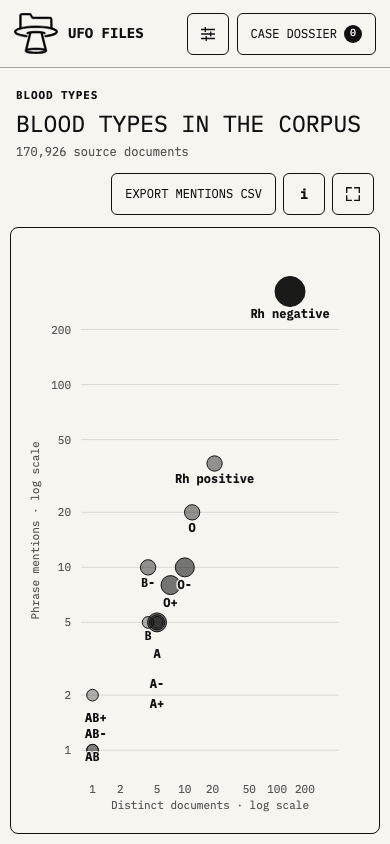
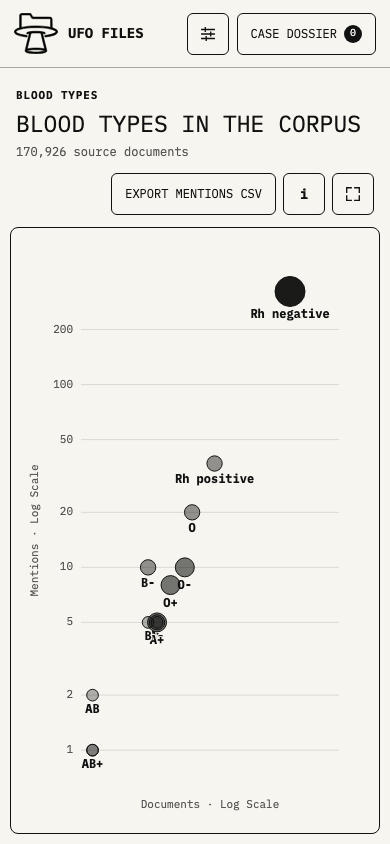
Share axis, point, and label rendering between scatter views

diff --git a/app.js b/app.js
@@ -2266,6 +2266,22 @@ function renderNetwork() {
   setSummary(`${nodes.length} ${collectionMode ? "collections" : "entities"} · ${edges.length} relationships`, "network");
 }
 
+function scatterPointMark(x, y, value, extent, isOutlier = false) {
+  return el("circle", {
+    cx: x, cy: y, r: scale(value, extent, [4, 15]),
+    fill: "#111", "fill-opacity": scale(value, extent, [.18, .96]),
+    stroke: "#111", "stroke-width": isOutlier ? 3 : 1,
+    class: `mark${isOutlier ? " outlier-mark" : ""}`
+  });
+}
+
+function scatterPointLabel(name, x, y, radius, labelSize, maximumY, maximumLength = 26) {
+  return el("text", {
+    x, y: Math.min(maximumY, y + radius + labelSize),
+    "text-anchor": "middle", class: "chart-label node-label"
+  }, name.slice(0, maximumLength));
+}
+
 function renderScatter() {
   const { svg, width, height } = clearChart();
   const candidates = filteredEntities();
@@ -2335,10 +2351,9 @@ function renderScatter() {
   data.forEach((item, index) => {
     const { x, y } = positionFor(item);
     const radius = scale(item[state.config.size], sizeExtent, [4, 15]);
-    const shade = scale(item[state.config.size], sizeExtent, [.18, .96]);
     const isOutlier = (!categoricalX && xAxis.capped && item[state.config.x] > xExtent[1]) || (yAxis.capped && item[state.config.y] > yExtent[1]);
     const egoNetwork = egoNetworks.get(item.id);
-    const dot = el("circle", { cx: x, cy: y, r: radius, fill: "#111", "fill-opacity": shade, stroke: "#111", "stroke-width": isOutlier ? 3 : 1, class: `mark${isOutlier ? " outlier-mark" : ""}` });
+    const dot = scatterPointMark(x, y, item[state.config.size], sizeExtent, isOutlier);
     const rawMentionDetail = ["contextAdjustedMentions", "epistemicAdjustedMentions"].includes(state.config.y) ? ` · Raw mentions: ${formatNumber(item.mentions)}` : "";
     const neighborDetail = egoNetwork.neighbors.length ? ` · Strongest relationships: ${egoNetwork.neighbors.map(neighbor => neighbor.entity.name).join(", ")}` : "";
     addTitle(dot, `${item.name} · ${label(state.config.y)}: ${formatNumber(item[state.config.y])}${rawMentionDetail}${neighborDetail}${isOutlier ? " · positioned at robust axis cap" : ""}`);
@@ -2366,9 +2381,9 @@ function renderScatter() {
     const showLabel = state.config.labels === "all"
       || (state.config.labels === "top" && (index < 10 || index % tickEvery === 0));
     if (categoricalX && showLabel) {
-      svg.append(el("text", { x, y: Math.min(height - 25, y + radius + state.config.labelSize), "text-anchor": "middle", class: "chart-label node-label" }, item.name.slice(0, 20)));
+      svg.append(scatterPointLabel(item.name, x, y, radius, state.config.labelSize, height - 25, 20));
     } else if (!categoricalX && showLabel) {
-      svg.append(el("text", { x, y: Math.min(height - margin.bottom + 18, y + radius + state.config.labelSize), "text-anchor": "middle", class: "chart-label node-label" }, item.name.slice(0, 26)));
+      svg.append(scatterPointLabel(item.name, x, y, radius, state.config.labelSize, height - margin.bottom + 18));
     }
   });
   drawIntensityLegend();
@@ -4382,33 +4397,20 @@ function drawBloodScatter(svg, observations, config) {
   const sourceExtent = valueExtent(groups.map(group => ({ sources: group.sources.size })), "sources");
   const ticks = [];
   for (let power = 0; 10 ** power <= maximum; power++) for (const multiplier of [1, 2, 5]) if (multiplier * 10 ** power <= maximum) ticks.push(multiplier * 10 ** power);
-  ticks.forEach(value => {
-    svg.append(el("line", { x1: margin.left, x2: width - margin.right, y1: y(value), y2: y(value), class: "grid-line" }));
-    svg.append(el("text", { x: x(value), y: height - margin.bottom + 20, "text-anchor": "middle", class: "axis-label" }, String(value)));
-    svg.append(el("text", { x: margin.left - 10, y: y(value) + 4, "text-anchor": "end", class: "axis-label" }, String(value)));
-  });
-  svg.append(el("text", { x: (width + margin.left - margin.right) / 2, y: height - 12, "text-anchor": "middle", class: "axis-label" }, "Distinct documents · log scale"));
-  svg.append(el("text", { x: 16, y: height / 2, transform: `rotate(-90 16 ${height / 2})`, "text-anchor": "middle", class: "axis-label" }, "Phrase mentions · log scale"));
-  const labels = [];
-  groups.slice().sort((a, b) => a.documents.size - b.documents.size || a.mentions - b.mentions).forEach(group => {
+  drawAxes(svg, width, height, "Documents · log scale", "Mentions · log scale",
+    [.75, maximum], [.75, maximum], {}, { yTicks: ticks.slice().reverse(), yPosition: y });
+  groups.forEach(group => {
     const px = x(group.documents.size), py = y(group.mentions);
-    const radius = scale(group.sources.size, sourceExtent, [4, 15]);
-    const opacity = scale(group.sources.size, sourceExtent, [.18, .96]);
-    const textWidth = group.type.length * config.labelSize * .6 + 8;
-    const lx = Math.max(margin.left + textWidth / 2, Math.min(width - margin.right - textWidth / 2, px));
-    const labelStep = config.labelSize + 4;
-    const candidates = Array.from({ length: 20 }, (_, index) => index < 10
-      ? py + radius + config.labelSize + index * labelStep
-      : py - radius - 6 - (index - 10) * labelStep);
-    const ly = candidates.find(candidate => candidate >= margin.top + config.labelSize && candidate <= height - margin.bottom - 8
-      && !labels.some(box => lx - textWidth / 2 < box.x + box.width / 2 && lx + textWidth / 2 > box.x - box.width / 2 && Math.abs(candidate - box.y) < labelStep))
-      ?? Math.min(height - margin.bottom - 8, py + radius + config.labelSize);
-    labels.push({ x: lx, y: ly, width: textWidth });
-    const mark = el("g", { class: "blood-scatter-point mark", role: "button", tabindex: "0", "data-blood-pick": group.type, "aria-pressed": String(config.bloodType === group.type), "aria-label": `${group.type}: ${group.documents.size} documents, ${group.mentions} mentions, ${group.sources.size} collections. Show source excerpts.` });
-    mark.append(el("title", {}, `${group.type} · ${group.documents.size} documents · ${group.mentions} mentions · ${group.sources.size} collections`));
-    mark.append(el("circle", { cx: px, cy: py, r: radius, fill: "#111", "fill-opacity": opacity, stroke: "#111", "stroke-width": 1 }));
-    mark.append(el("text", { x: lx, y: ly, "text-anchor": "middle", class: "chart-label node-label" }, group.type));
-    svg.append(mark);
+    const point = scatterPointMark(px, py, group.sources.size, sourceExtent);
+    point.classList.add("blood-scatter-point");
+    point.setAttribute("role", "button");
+    point.setAttribute("tabindex", "0");
+    point.setAttribute("data-blood-pick", group.type);
+    point.setAttribute("aria-pressed", String(config.bloodType === group.type));
+    point.setAttribute("aria-label", `${group.type}: ${group.documents.size} documents, ${group.mentions} mentions, ${group.sources.size} collections. Show source excerpts.`);
+    addTitle(point, `${group.type} · ${group.documents.size} documents · ${group.mentions} mentions · ${group.sources.size} collections`);
+    svg.append(point);
+    svg.append(scatterPointLabel(group.type, px, py, scale(group.sources.size, sourceExtent, [4, 15]), config.labelSize, height - margin.bottom + 18));
   });
 }
 
@@ -4443,7 +4445,7 @@ function renderBloodTypes() {
   if (scatter) drawBloodScatter(scatter, overviewItems, state.config);
   queue.querySelectorAll("[data-blood-pick]").forEach(button => {
     button.addEventListener("click", () => selectEvidence(button.dataset.bloodPick));
-    if (["g", "tr"].includes(button.tagName.toLowerCase())) button.addEventListener("keydown", event => {
+    if (["g", "circle", "tr"].includes(button.tagName.toLowerCase())) button.addEventListener("keydown", event => {
       if (["Enter", " "].includes(event.key)) { event.preventDefault(); selectEvidence(button.dataset.bloodPick); }
     });
   });
